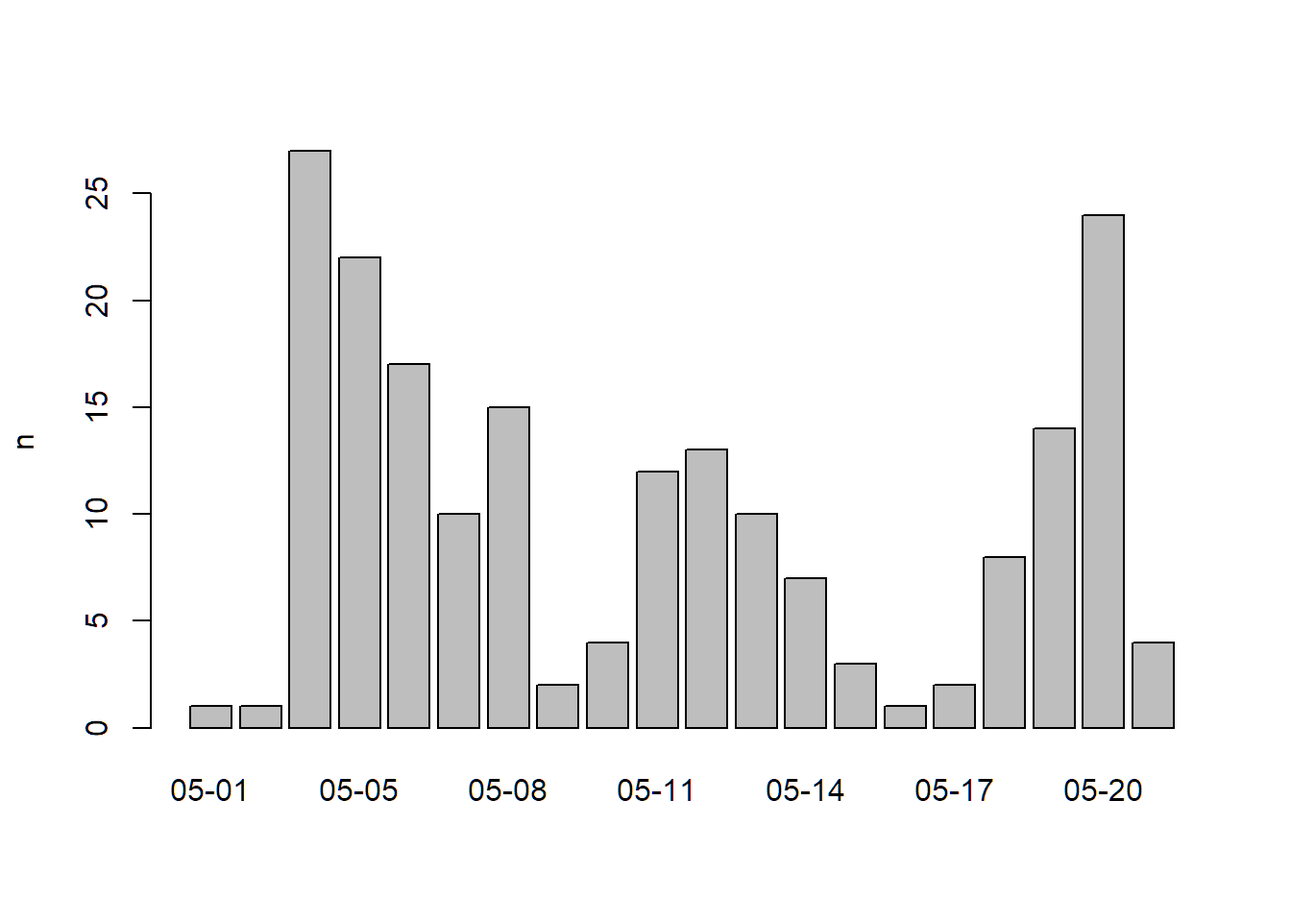
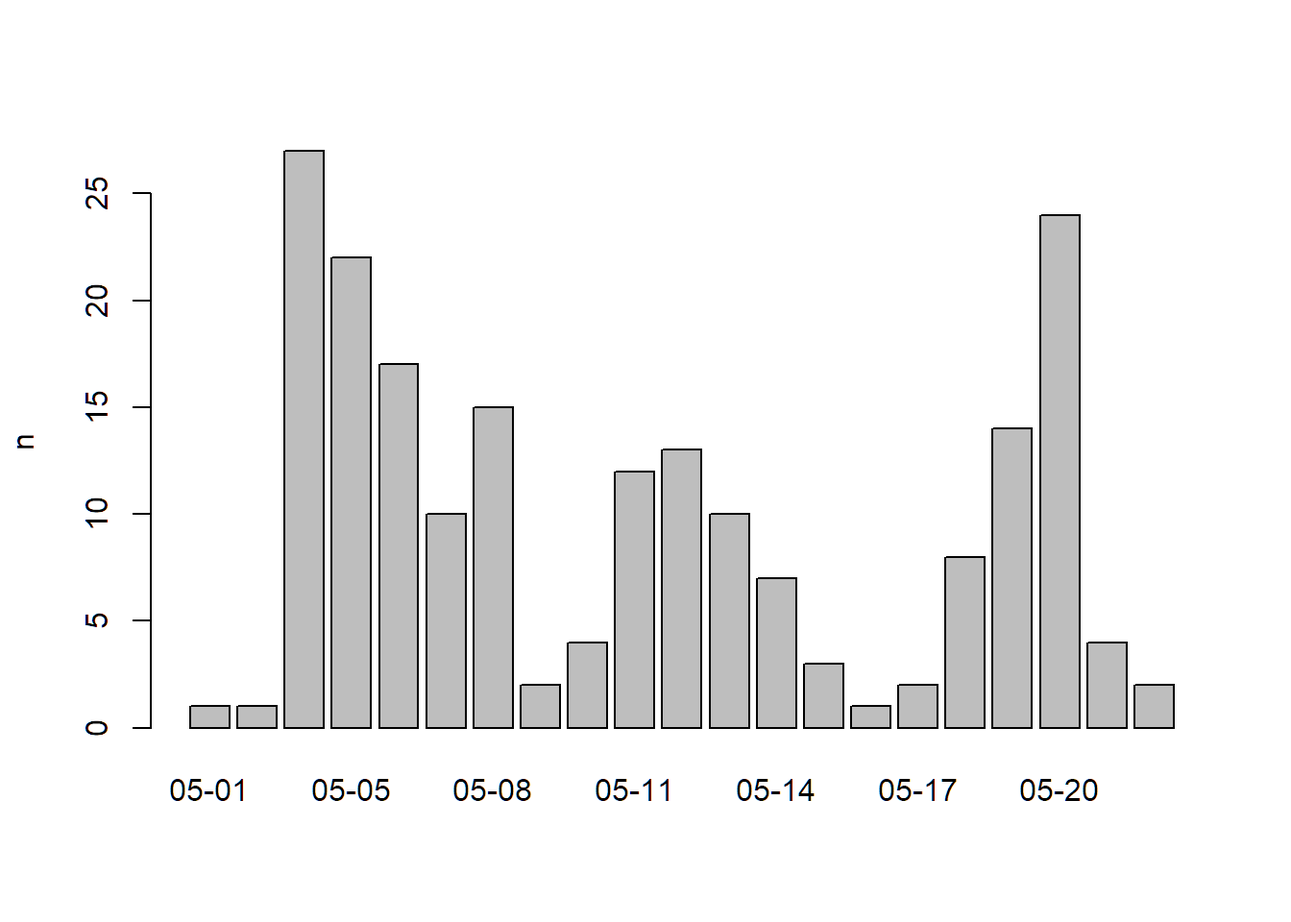
updated reg summary

diff --git a/docs/reg_summary.html b/docs/reg_summary.html
@@ -268,7 +268,7 @@ div.tocify {
 
 
 <h1 class="title toc-ignore">DroneCamp 2020 Registrations</h1>
-<h4 class="date">as of Thursday May 21, 13:56</h4>
+<h4 class="date">as of Friday May 22, 15:36</h4>
 
 </div>
 
@@ -299,15 +299,15 @@ h4 {
 <h1>Summary</h1>
 <p><p class="total">
 Total: 
-197
+199
 </p><p>
 <em>estimate based on unique email addresses</em>
 </p></p>
 </div>
 <div id="map" class="section level1">
 <h1>Map</h1>
-<div id="htmlwidget-5b324477708353fabc7c" style="width:672px;height:480px;" class="leaflet html-widget"></div>
-<script type="application/json" data-for="htmlwidget-5b324477708353fabc7c">{"x":{"options":{"crs":{"crsClass":"L.CRS.EPSG3857","code":null,"proj4def":null,"projectedBounds":null,"options":{}}},"calls":[{"method":"addTiles","args":["//{s}.tile.openstreetmap.org/{z}/{x}/{y}.png",null,null,{"minZoom":0,"maxZoom":18,"tileSize":256,"subdomains":"abc","errorTileUrl":"","tms":false,"noWrap":false,"zoomOffset":0,"zoomReverse":false,"opacity":1,"zIndex":1,"detectRetina":false,"attribution":"&copy; <a href=\"http://openstreetmap.org\">OpenStreetMap<\/a> contributors, <a href=\"http://creativecommons.org/licenses/by-sa/2.0/\">CC-BY-SA<\/a>"}]},{"method":"addCircleMarkers","args":[[37.4635519,36.678155,44.6111643,44.60509,38.5449065,32.7764749,36.825582,34.048411,38.5449065,36.9741171,38.556576,40.8020712,35.5005139,36.9707,38.5449065,37.7749295,40.659753,38.457611,37.523901,32.700018,36.6002378,34.117047,37.9829496,40.867469,36.681161,34.4208305,38.549256,41.081726,38.440111,32.704499,33.794028,40.039784,40.160138,39.5807452,52.9817372,49.2488091,43.6150186,39.072831,47.6248791,51.0447331,40.5852602,34.063209,37.5629917,36.678155,36.447533,35.5496939,40.5852602,34.0966764,36.6844029,49.2827291,34.268736,39.830936,36.722616,40.4233142,40.5852602,39.720955,36.9741171,36.6844029,43.0085587,37.3021632,40.867469,37.8715226,38.480494,33.640302,36.148444,49.2488091,38.672127,32.715738,39.7392358,38.3293416,38.3293416,38.3293416,40.0149856,40.4233142,36.812905,33.571185,34.0522342,32.715738,32.557684,38.939926,38.939926,47.899217,45.497856,41.971044,34.432896,36.3302284,36.358928,36.678155,39.9242266,38.7296252,43.828266,32.8328112,49.2710518,39.202725,34.110009,37.4529598,45.5051064,39.767536,49.1344187,39.114138,34.1175895,39.049377,39.049377,47.899217,32.800259,32.853471,40.399281,32.8111612,50.9341773,36.6844029,37.342056,33.016928,39.15973,39.720955,33.869114,33.016928,32.715738,36.678155,38.546306,39.7778,45.56544,45.482341,51.1097378,38.528103,38.528103,37.8715226,38.546306,26.067966,39.735745,36.691036,51.0869594,38.359772,36.865587,32.918035,40.399281,39.403178,37.010322,38.549256,36.680194,36.665879,37.8715226,37.232027,36.61365,38.549256,33.571185,36.619065,32.8328112,43.0730517,36.665879,43.165134,60.766603,37.057708,32.6926512,33.835465,38.480494,41.5264977,42.02933,49.1682866,43.06956,49.2609021,33.785166,38.628371,37.954122,49.2684344,40.963482,38.697238,39.957324,49.261045,34.406519,34.443746,44.6564909,44.6564909,44.6564909,36.9880503,44.6564909,36.9880503,44.6564909,44.6564909,44.6564909,44.6564909,44.6564909,39.645276,36.678155,38.5382322,39.395387,33.016928,34.4139629,38.5382322,40.044385,36.979333,38.5382322,38.580255,37.868575,38.5449065],[-122.4285862,-121.79724,-69.3345032,-69.33022,-121.7405167,-79.9310512,-119.76358,-118.34015,-121.7405167,-122.0307963,-121.49285,-124.1636729,-119.2717761,-121.99086,-121.7405167,-122.4194155,-124.22153,-122.69317,-120.8516,-114.52671,-121.8946761,-117.77097,-120.3821724,-124.07519,-121.61538,-119.6981901,-121.73655,-124.13112,-122.74563,-114.64644,-118.07218,-105.27938,-105.01772,-104.8771726,-122.4949058,-122.9805104,-116.2023137,-108.55,-122.5210007,-114.0718831,-105.084423,-118.43643,-122.3255254,-121.79724,-121.68611,-120.7060049,-105.084423,-117.7197785,-121.802173,-123.1207375,-119.2249,-105.03736,-120.10081,-104.7091322,-105.084423,-121.81888,-122.0307963,-121.802173,-81.2634983,-120.4829677,-124.07519,-122.273042,-122.74976,-117.769442,-95.90841,-122.9805104,-121.15783,-117.1610838,-104.990251,-122.7096666,-122.7096666,-122.7096666,-105.2705456,-104.7091322,-121.78299,-117.15362,-118.2436849,-117.1610838,-94.74353,-119.9771868,-119.9771868,-97.05896,-122.76988,-87.75869,-119.837072,-119.2920585,-119.24027,-121.79724,-83.8088171,-120.798546,-84.74219,-117.2712717,-123.1588119,-121.02076,-117.71973,-122.1817252,-122.6750261,-105.01973,-123.1163498,-121.6196,-118.188329,-76.49892,-76.49892,-97.05896,-115.35369,-115.58942,-104.70172,-115.3802643,-114.106128,-121.802173,-120.50154,-116.846046,-121.53735,-121.81888,-117.92985,-116.846046,-117.1610838,-121.79724,-121.68682,-89.67982,-122.64635,-122.60007,-114.1517792,-76.98063,-76.98063,-122.273042,-121.68682,-80.22016,-105.19337,-119.83321,-114.1294249,-120.75324,-119.75917,-117.08438,-104.70172,-119.7606,-121.98523,-121.73655,-121.7822278,-121.65497,-122.273042,-80.42127,-119.52873,-121.73655,-117.15362,-121.92102,-117.2712717,-89.4012302,-121.65497,-76.33901,-161.88006,-122.05967,-114.6276916,-117.87362,-122.74976,-70.6730857,-93.60966,-122.9101347,-89.423861,-123.1341072,-117.93406,-121.32702,-122.02506,-123.2611098,-124.07286,-121.80944,-120.98366,-123.2487939,-118.56214,-119.94215,-63.6021832,-63.6021832,-63.6021832,-122.0582093,-63.6021832,-122.0582093,-63.6021832,-63.6021832,-63.6021832,-63.6021832,-63.6021832,-79.962669,-121.79724,-121.7617125,-119.72735,-116.846046,-119.848947,-121.7617125,-105.21928,-121.8944,-121.7617125,-121.49125,-122.25855,-121.7405167],10,null,null,{"interactive":true,"className":"","stroke":true,"color":"#03F","weight":5,"opacity":0.5,"fill":true,"fillColor":"#03F","fillOpacity":0.2},1,null,["CE Advisor (Urban Forestry)<br/>UCCE San Mateo/San Francisco","Human Resources<br/>MPC Student","Professor<br/>Unity College","Professor of Geoscience<br/>Unity College","Executive Director, Sustainable Wine & Food Processing Center<br/>University of California Davis","Graduate Student<br/>College of Charleston","Turfgrass and Environmental Horticulture Advisor<br/>University of California Cooperative Extension","Postdoctoral Scholar<br/>UCLA","Associate Director River Restoration<br/>American Rivers","Senior Restoration Ecologist<br/>River Partners","Graduate Student<br/>UC Davis","Associate Environmental Planner<br/>Caltrans","Consultant/Remote Sensing Engineer<br/>Wonderful","Masters Candidate<br/>University of California Santa Cruz","Postdoc<br/>UC Davis","GIS Manager/Drone Pilot<br/>SFEI","Assistant Professor<br/>College of the Redwoods","Sr. GIS Analyst / Drone Ops<br/>Jackson Family Wines","Assistant Professor of Geography<br/>CSU, Stanislaus","Media Specialist and Drone Operator<br/>University of Arizona Yuma Center of Excellence for Desert Agriculture","GIS Technician<br/>CSU Monterey Bay","Statewide Survey and Trapping Coordinator<br/>UC IPM","Professor<br/>Columbia College","Adjunct Lecturer<br/>Humboldt State University","Student Researcher<br/>California State University Monterey Bay","Master Student<br/>UCSB","Graduate PhD student<br/>University of California Davis","Student<br/>College of the redwoods","Department Chair<br/>Santa Rosa Junior College","Professor of Geosciences/UAS<br/>Arizona Western College","Environmental Scientist<br/>California Department of Fish and Wildlife, Office of Spill Prevention and Response","GIS Ana.yst<br/>AGS Inc.","Unemployed<br/>Unemployed","GIS Specialist<br/>ICON Engineering","Student / BC Ministry of Forests Auxiliary<br/>British Columbia Institute of Technology","Student<br/>British Columbia Institute of Technology","Assistant Professor, Human Environment Systems<br/>Boise State University","GIS Technician<br/>City of Grand Junction","Sr Wildlife Biologist/Project Manager<br/>ManTech International","Geographer<br/>none","Owner<br/>Private Business","Undergraduate<br/>University of California, Berkeley","Student<br/>College of San Mateo","Graduate student<br/>UC Santa Cruz","Director, Hastings Reserve<br/>UC Berkeley","Program Manager<br/>Upper Salinas Las Tablas Resource Conservation District","Environmental Scientist<br/>Twin Fish Enterprises LLC","Student<br/>Claremont Graduate University","Graduate Student<br/>California State University Monterey Bay","Student<br/>BCIT","Lab/Field Assistant<br/>UCCE Ventura County","Sr Geographic Analyst<br/>HERE Technologies","Field Agronomist<br/>Bayer","Professor & Chair<br/>University of Northern Colorado","Student Researcher<br/>Colorado State University","Instructor<br/>Butte College","Master Student<br/>University of California Santa Cruz","IST II<br/>CSU. Monterey Bay","Teaching assistant<br/>Western University","Student<br/>UC Merced","It<br/>Humboldt State U","Field Research Safety CoE/Health & Safety Advisor<br/>UC Berkeley","Dairy Advisor<br/>University of California Cooperative Extension","Principal IT Auditor<br/>UC Irvine","Graduate student<br/>University of Tulsa","GIS Student<br/>BCIT","Postdoc<br/>UCDavis","Videographer<br/>SDSC","Student<br/>University of Denver","Scientific Programs Manager<br/>Marin/Sonoma Mosquito and Vector Control District","Environmental Biologist<br/>Marin/Sonoma Mosquito and Vector Control District","Assistant Manager<br/>Marin/Sonoma Mosquito and Vector Control District","Field Engineer<br/>UNAVCO","Emeritus Professor<br/>University of Northern Colorado","Digital Media Assistant<br/>Elkhorn Slough Foundation","Community Edication Specialist<br/>UCCE","Graduate Student<br/>California State University, Los Angeles","Teaching Assistant<br/>UCSD","Student<br/>Letourneau University","Adjunct Instructor<br/>LTCC","Citizen Science Program Coordinator<br/>League to Save Lake Tahoe","Owner<br/>UAS for Good LLC","Instructor<br/>Portland Community College","Instructor<br/>Harper College","R & D Engineer<br/>University of California Santa Barbara","Environmental Scientist<br/>CAL FIRE","Forerstry Assistant II<br/>CAL FIRE","Student<br/>CSU Monterey Bay","Associate Professor/Geospatial Technology Coordinator<br/>Clark State Community College","GIS Manager<br/>County of El Dorado","Instructor<br/>Mid Michigan College","R&D Engineer<br/>UC San Diego/Scripps Oceanography","Biologist<br/>Hemmera","Middle School Science Teacher<br/>Nevada City School of the Arts","Digital Scholarship Librarian<br/>Claremont Colleges","Postdoctoral scholar<br/>UC Berkeley","student<br/>PSU","Retired<br/>None","Student in GIS<br/>BCIT (British Columbia Student of Technology)","Advisor<br/>UCCE Sutter-Yuba","GIS Analyst / Geophysicist / Geologist<br/>Rio Hondo College","Instructional Specialist<br/>Anne Arundel Community College","Professor<br/>Anne Arundel Community College","Assistant Professor of Aviation<br/>University of North Dakota","CENTER SUPERINTENDENT<br/>University of California  DREC","SRA<br/>University of California  DREC","Assistant Professor<br/>University of Northern Colorado","lab assistant<br/>UC Cooperative Extension  in Imperial","Student<br/>University of Calgary","Student<br/>CSUMB","Coordinator and Professor of Computer Science<br/>Merced College","Ph.D. student<br/>UC San Diego","Farm hand<br/>CSU Chico, student","Environmental Land Steward II<br/>Chico State Enterprise","President<br/>Roof Rx Inc","PhD student<br/>UCSD","PhD Student<br/>University of California, San Diego","Professor and Farm Incubator<br/>CSUMB","Program and Event Specialist<br/>UC ANR","Student<br/>University of Kentucky","STEAM coordinator<br/>Portland Community College","STEAM Coordinator<br/>Portland. Community College","student<br/>Univeristy of Calgary","Program Assistant - Transportation<br/>College of Southern Marland","Director I, Transportation Dept<br/>College of Southern Maryland","Graduate Student<br/>University of California, Berkeley","Sr. Systems Administrator<br/>University of California - Agriculture and Natural Resources","Geomatics Specialist<br/>UF","Multimedia Section Lead<br/>NREL","Research Associate<br/>Bayer Crop Science","Student<br/>University of Calgary","Farm Advisor<br/>UCCE Central Sierra","Asst. Specialist<br/>UC ANR","Student - Intern for Graduate Student Studying Habitat Restoration and GIS<br/>UC Davis","Associate Professor<br/>University of Northern Colorado","GIS Analyst<br/>Michael Baker International","student<br/>West Valley College","PhD student<br/>Uc Davis","Assistant Professor<br/>California State University Monterey Bay","IPM & Entomology Advisor<br/>University of California Cooperative Extension","Ph.D. Candidate<br/>University of California, Berkeley","Geospatial Ext. Specialist<br/>Virginia Tech","Assistant CE Specialist<br/>ANR","Graduate Student Researcher<br/>UC Davis","GIS Consultant<br/>GEOinovo Solutions Inc","Graduate Student Assistant<br/>CSUMB","Student<br/>University of California San Diego","Postdoctoral Fellow<br/>The University of Wisconsin","Senior Lecturer/Media Production Specialist<br/>Cinematic Arts & Technology, CSU Monterey Bay","Student<br/>Syracuse University","Biologist/pilot<br/>US Fish and Wildlife Service","Postdoctoral Researcher<br/>UC Santa Cruz","Postdoctoral Research Associate<br/>University of Arizona","Student<br/>Rio Hondo College","Staff Surveyor<br/>Cinquini & Passarino Inc.","Research Scientist<br/>Marine Biological Laboratory","Graduate Research Assistant<br/>Iowa State University","Stuent<br/>British Columbia Institute of Technology","Undergraduate Researcher<br/>University of Wisconsin - Madison","Grad student<br/>UBC","Director, Drone Education Programs<br/>Vital Link OC","Professor, Department of Mechanical Engineering; Senior Bridge Engineer, Caltrans<br/>CSU Maritime Academy/Caltrans","IT Project Manager<br/>CSU Monterey Bay","PhD Student<br/>University of British Columbia","Biologist<br/>Caltrans","Project Designer<br/>Continental Development Consultants","Land Steward- Conservation Easement Coordinator<br/>Feather River Land Trust","PhD student<br/>The University of British Columbia","Commercial Estimator<br/>Rio Hondo College","PhD student, laboratory manager<br/>UCSB","Assistant Professor<br/>Dalhousie University","MSc student<br/>Dalhousie University","MSc student<br/>Dalhousie University","Researcher<br/>UC Santa Cruz","MSc student<br/>Dalhousie University","Summer Intern (Doris Duke Scholar)<br/>UC Santa Cruz","MSc student<br/>Dalhousie University","MSc student<br/>Dalhousie University","PhD student<br/>Dalhousie University","MSc student<br/>Dalhousie University","MSc student<br/>Dalhousie University","Assistant Professor<br/>West Virginia University","Field Technician<br/>CSUMB","PhD Candidate<br/>UC Davis","GIS Analyst<br/>NV Energy","PhD Student<br/>University of California, San Diego","Reserve Director, Carpinteria Salt Marsh Resereve<br/>University of California, Santa Barbara/UC NRS","scientist<br/>UC Davis","Field Engineer<br/>UNAVCO","Student<br/>CSUMB","Geospatial Specialist (JS)<br/>UC Davis","Civil Engineer<br/>CA DWR","PhD Student<br/>UC Berkeley","Student<br/>University of California Davis"],null,null,{"interactive":false,"permanent":false,"direction":"auto","opacity":1,"offset":[0,0],"textsize":"10px","textOnly":false,"className":"","sticky":true},null]}],"limits":{"lat":[26.067966,60.766603],"lng":[-161.88006,-63.6021832]}},"evals":[],"jsHooks":[]}</script>
+<div id="htmlwidget-a361cd1d10f02f13781a" style="width:672px;height:480px;" class="leaflet html-widget"></div>
+<script type="application/json" data-for="htmlwidget-a361cd1d10f02f13781a">{"x":{"options":{"crs":{"crsClass":"L.CRS.EPSG3857","code":null,"proj4def":null,"projectedBounds":null,"options":{}}},"calls":[{"method":"addTiles","args":["//{s}.tile.openstreetmap.org/{z}/{x}/{y}.png",null,null,{"minZoom":0,"maxZoom":18,"tileSize":256,"subdomains":"abc","errorTileUrl":"","tms":false,"noWrap":false,"zoomOffset":0,"zoomReverse":false,"opacity":1,"zIndex":1,"detectRetina":false,"attribution":"&copy; <a href=\"http://openstreetmap.org\">OpenStreetMap<\/a> contributors, <a href=\"http://creativecommons.org/licenses/by-sa/2.0/\">CC-BY-SA<\/a>"}]},{"method":"addCircleMarkers","args":[[37.4635519,36.678155,44.6111643,44.60509,38.5449065,32.7764749,36.825582,34.048411,38.5449065,36.9741171,38.556576,40.8020712,35.5005139,36.9707,38.5449065,37.7749295,40.659753,38.457611,37.523901,32.700018,36.6002378,34.117047,37.9829496,40.867469,36.681161,34.4208305,38.549256,41.081726,38.440111,32.704499,33.794028,40.039784,40.160138,39.5807452,52.9817372,49.2488091,43.6150186,39.072831,47.6248791,51.0447331,40.5852602,34.063209,37.5629917,36.678155,36.447533,35.5496939,40.5852602,34.0966764,36.6844029,49.2827291,34.268736,39.830936,36.722616,40.4233142,40.5852602,39.720955,36.9741171,36.6844029,43.0085587,37.3021632,40.867469,37.8715226,38.480494,33.640302,36.148444,49.2488091,38.672127,32.715738,39.7392358,38.3293416,38.3293416,38.3293416,40.0149856,40.4233142,36.812905,33.571185,34.0522342,32.715738,32.557684,38.939926,38.939926,47.899217,45.497856,41.971044,34.432896,36.3302284,36.358928,36.678155,39.9242266,38.7296252,43.828266,32.8328112,49.2710518,39.202725,34.110009,37.4529598,45.5051064,39.767536,49.1344187,39.114138,34.1175895,39.049377,39.049377,47.899217,32.800259,32.853471,40.399281,32.8111612,50.9341773,36.6844029,37.342056,33.016928,39.15973,39.720955,33.869114,33.016928,32.715738,36.678155,38.546306,39.7778,45.56544,45.482341,51.1097378,38.528103,38.528103,37.8715226,38.546306,26.067966,39.735745,36.691036,51.0869594,38.359772,36.865587,32.918035,40.399281,39.403178,37.010322,38.549256,36.680194,36.665879,37.8715226,37.232027,36.61365,38.549256,33.571185,36.619065,32.8328112,43.0730517,36.665879,43.165134,60.766603,37.057708,32.6926512,33.835465,38.480494,41.5264977,42.02933,49.1682866,43.06956,49.2609021,33.785166,38.628371,37.954122,49.2684344,40.963482,38.697238,39.957324,49.261045,34.406519,34.443746,44.6564909,44.6564909,44.6564909,36.9880503,44.6564909,36.9880503,44.6564909,44.6564909,44.6564909,44.6564909,44.6564909,39.645276,36.678155,38.5382322,39.395387,33.016928,34.4139629,38.5382322,40.044385,36.979333,38.5382322,38.580255,37.868575,38.5449065,43.318318,43.074296],[-122.4285862,-121.79724,-69.3345032,-69.33022,-121.7405167,-79.9310512,-119.76358,-118.34015,-121.7405167,-122.0307963,-121.49285,-124.1636729,-119.2717761,-121.99086,-121.7405167,-122.4194155,-124.22153,-122.69317,-120.8516,-114.52671,-121.8946761,-117.77097,-120.3821724,-124.07519,-121.61538,-119.6981901,-121.73655,-124.13112,-122.74563,-114.64644,-118.07218,-105.27938,-105.01772,-104.8771726,-122.4949058,-122.9805104,-116.2023137,-108.55,-122.5210007,-114.0718831,-105.084423,-118.43643,-122.3255254,-121.79724,-121.68611,-120.7060049,-105.084423,-117.7197785,-121.802173,-123.1207375,-119.2249,-105.03736,-120.10081,-104.7091322,-105.084423,-121.81888,-122.0307963,-121.802173,-81.2634983,-120.4829677,-124.07519,-122.273042,-122.74976,-117.769442,-95.90841,-122.9805104,-121.15783,-117.1610838,-104.990251,-122.7096666,-122.7096666,-122.7096666,-105.2705456,-104.7091322,-121.78299,-117.15362,-118.2436849,-117.1610838,-94.74353,-119.9771868,-119.9771868,-97.05896,-122.76988,-87.75869,-119.837072,-119.2920585,-119.24027,-121.79724,-83.8088171,-120.798546,-84.74219,-117.2712717,-123.1588119,-121.02076,-117.71973,-122.1817252,-122.6750261,-105.01973,-123.1163498,-121.6196,-118.188329,-76.49892,-76.49892,-97.05896,-115.35369,-115.58942,-104.70172,-115.3802643,-114.106128,-121.802173,-120.50154,-116.846046,-121.53735,-121.81888,-117.92985,-116.846046,-117.1610838,-121.79724,-121.68682,-89.67982,-122.64635,-122.60007,-114.1517792,-76.98063,-76.98063,-122.273042,-121.68682,-80.22016,-105.19337,-119.83321,-114.1294249,-120.75324,-119.75917,-117.08438,-104.70172,-119.7606,-121.98523,-121.73655,-121.7822278,-121.65497,-122.273042,-80.42127,-119.52873,-121.73655,-117.15362,-121.92102,-117.2712717,-89.4012302,-121.65497,-76.33901,-161.88006,-122.05967,-114.6276916,-117.87362,-122.74976,-70.6730857,-93.60966,-122.9101347,-89.423861,-123.1341072,-117.93406,-121.32702,-122.02506,-123.2611098,-124.07286,-121.80944,-120.98366,-123.2487939,-118.56214,-119.94215,-63.6021832,-63.6021832,-63.6021832,-122.0582093,-63.6021832,-122.0582093,-63.6021832,-63.6021832,-63.6021832,-63.6021832,-63.6021832,-79.962669,-121.79724,-121.7617125,-119.72735,-116.846046,-119.848947,-121.7617125,-105.21928,-121.8944,-121.7617125,-121.49125,-122.25855,-121.7405167,-89.74928,-89.40774],10,null,null,{"interactive":true,"className":"","stroke":true,"color":"#03F","weight":5,"opacity":0.5,"fill":true,"fillColor":"#03F","fillOpacity":0.2},1,null,["CE Advisor (Urban Forestry)<br/>UCCE San Mateo/San Francisco","Human Resources<br/>MPC Student","Professor<br/>Unity College","Professor of Geoscience<br/>Unity College","Executive Director, Sustainable Wine & Food Processing Center<br/>University of California Davis","Graduate Student<br/>College of Charleston","Turfgrass and Environmental Horticulture Advisor<br/>University of California Cooperative Extension","Postdoctoral Scholar<br/>UCLA","Associate Director River Restoration<br/>American Rivers","Senior Restoration Ecologist<br/>River Partners","Graduate Student<br/>UC Davis","Associate Environmental Planner<br/>Caltrans","Consultant/Remote Sensing Engineer<br/>Wonderful","Masters Candidate<br/>University of California Santa Cruz","Postdoc<br/>UC Davis","GIS Manager/Drone Pilot<br/>SFEI","Assistant Professor<br/>College of the Redwoods","Sr. GIS Analyst / Drone Ops<br/>Jackson Family Wines","Assistant Professor of Geography<br/>CSU, Stanislaus","Media Specialist and Drone Operator<br/>University of Arizona Yuma Center of Excellence for Desert Agriculture","GIS Technician<br/>CSU Monterey Bay","Statewide Survey and Trapping Coordinator<br/>UC IPM","Professor<br/>Columbia College","Adjunct Lecturer<br/>Humboldt State University","Student Researcher<br/>California State University Monterey Bay","Master Student<br/>UCSB","Graduate PhD student<br/>University of California Davis","Student<br/>College of the redwoods","Department Chair<br/>Santa Rosa Junior College","Professor of Geosciences/UAS<br/>Arizona Western College","Environmental Scientist<br/>California Department of Fish and Wildlife, Office of Spill Prevention and Response","GIS Ana.yst<br/>AGS Inc.","Unemployed<br/>Unemployed","GIS Specialist<br/>ICON Engineering","Student / BC Ministry of Forests Auxiliary<br/>British Columbia Institute of Technology","Student<br/>British Columbia Institute of Technology","Assistant Professor, Human Environment Systems<br/>Boise State University","GIS Technician<br/>City of Grand Junction","Sr Wildlife Biologist/Project Manager<br/>ManTech International","Geographer<br/>none","Owner<br/>Private Business","Undergraduate<br/>University of California, Berkeley","Student<br/>College of San Mateo","Graduate student<br/>UC Santa Cruz","Director, Hastings Reserve<br/>UC Berkeley","Program Manager<br/>Upper Salinas Las Tablas Resource Conservation District","Environmental Scientist<br/>Twin Fish Enterprises LLC","Student<br/>Claremont Graduate University","Graduate Student<br/>California State University Monterey Bay","Student<br/>BCIT","Lab/Field Assistant<br/>UCCE Ventura County","Sr Geographic Analyst<br/>HERE Technologies","Field Agronomist<br/>Bayer","Professor & Chair<br/>University of Northern Colorado","Student Researcher<br/>Colorado State University","Instructor<br/>Butte College","Master Student<br/>University of California Santa Cruz","IST II<br/>CSU. Monterey Bay","Teaching assistant<br/>Western University","Student<br/>UC Merced","It<br/>Humboldt State U","Field Research Safety CoE/Health & Safety Advisor<br/>UC Berkeley","Dairy Advisor<br/>University of California Cooperative Extension","Principal IT Auditor<br/>UC Irvine","Graduate student<br/>University of Tulsa","GIS Student<br/>BCIT","Postdoc<br/>UCDavis","Videographer<br/>SDSC","Student<br/>University of Denver","Scientific Programs Manager<br/>Marin/Sonoma Mosquito and Vector Control District","Environmental Biologist<br/>Marin/Sonoma Mosquito and Vector Control District","Assistant Manager<br/>Marin/Sonoma Mosquito and Vector Control District","Field Engineer<br/>UNAVCO","Emeritus Professor<br/>University of Northern Colorado","Digital Media Assistant<br/>Elkhorn Slough Foundation","Community Edication Specialist<br/>UCCE","Graduate Student<br/>California State University, Los Angeles","Teaching Assistant<br/>UCSD","Student<br/>Letourneau University","Adjunct Instructor<br/>LTCC","Citizen Science Program Coordinator<br/>League to Save Lake Tahoe","Owner<br/>UAS for Good LLC","Instructor<br/>Portland Community College","Instructor<br/>Harper College","R & D Engineer<br/>University of California Santa Barbara","Environmental Scientist<br/>CAL FIRE","Forerstry Assistant II<br/>CAL FIRE","Student<br/>CSU Monterey Bay","Associate Professor/Geospatial Technology Coordinator<br/>Clark State Community College","GIS Manager<br/>County of El Dorado","Instructor<br/>Mid Michigan College","R&D Engineer<br/>UC San Diego/Scripps Oceanography","Biologist<br/>Hemmera","Middle School Science Teacher<br/>Nevada City School of the Arts","Digital Scholarship Librarian<br/>Claremont Colleges","Postdoctoral scholar<br/>UC Berkeley","student<br/>PSU","Retired<br/>None","Student in GIS<br/>BCIT (British Columbia Student of Technology)","Advisor<br/>UCCE Sutter-Yuba","GIS Analyst / Geophysicist / Geologist<br/>Rio Hondo College","Instructional Specialist<br/>Anne Arundel Community College","Professor<br/>Anne Arundel Community College","Assistant Professor of Aviation<br/>University of North Dakota","CENTER SUPERINTENDENT<br/>University of California  DREC","SRA<br/>University of California  DREC","Assistant Professor<br/>University of Northern Colorado","lab assistant<br/>UC Cooperative Extension  in Imperial","Student<br/>University of Calgary","Student<br/>CSUMB","Coordinator and Professor of Computer Science<br/>Merced College","Ph.D. student<br/>UC San Diego","Farm hand<br/>CSU Chico, student","Environmental Land Steward II<br/>Chico State Enterprise","President<br/>Roof Rx Inc","PhD student<br/>UCSD","PhD Student<br/>University of California, San Diego","Professor and Farm Incubator<br/>CSUMB","Program and Event Specialist<br/>UC ANR","Student<br/>University of Kentucky","STEAM coordinator<br/>Portland Community College","STEAM Coordinator<br/>Portland. Community College","student<br/>Univeristy of Calgary","Program Assistant - Transportation<br/>College of Southern Marland","Director I, Transportation Dept<br/>College of Southern Maryland","Graduate Student<br/>University of California, Berkeley","Sr. Systems Administrator<br/>University of California - Agriculture and Natural Resources","Geomatics Specialist<br/>UF","Multimedia Section Lead<br/>NREL","Research Associate<br/>Bayer Crop Science","Student<br/>University of Calgary","Farm Advisor<br/>UCCE Central Sierra","Asst. Specialist<br/>UC ANR","Student - Intern for Graduate Student Studying Habitat Restoration and GIS<br/>UC Davis","Associate Professor<br/>University of Northern Colorado","GIS Analyst<br/>Michael Baker International","student<br/>West Valley College","PhD student<br/>Uc Davis","Assistant Professor<br/>California State University Monterey Bay","IPM & Entomology Advisor<br/>University of California Cooperative Extension","Ph.D. Candidate<br/>University of California, Berkeley","Geospatial Ext. Specialist<br/>Virginia Tech","Assistant CE Specialist<br/>ANR","Graduate Student Researcher<br/>UC Davis","GIS Consultant<br/>GEOinovo Solutions Inc","Graduate Student Assistant<br/>CSUMB","Student<br/>University of California San Diego","Postdoctoral Fellow<br/>The University of Wisconsin","Senior Lecturer/Media Production Specialist<br/>Cinematic Arts & Technology, CSU Monterey Bay","Student<br/>Syracuse University","Biologist/pilot<br/>US Fish and Wildlife Service","Postdoctoral Researcher<br/>UC Santa Cruz","Postdoctoral Research Associate<br/>University of Arizona","Student<br/>Rio Hondo College","Staff Surveyor<br/>Cinquini & Passarino Inc.","Research Scientist<br/>Marine Biological Laboratory","Graduate Research Assistant<br/>Iowa State University","Stuent<br/>British Columbia Institute of Technology","Undergraduate Researcher<br/>University of Wisconsin - Madison","Grad student<br/>UBC","Director, Drone Education Programs<br/>Vital Link OC","Professor, Department of Mechanical Engineering; Senior Bridge Engineer, Caltrans<br/>CSU Maritime Academy/Caltrans","IT Project Manager<br/>CSU Monterey Bay","PhD Student<br/>University of British Columbia","Biologist<br/>Caltrans","Project Designer<br/>Continental Development Consultants","Land Steward- Conservation Easement Coordinator<br/>Feather River Land Trust","PhD student<br/>The University of British Columbia","Commercial Estimator<br/>Rio Hondo College","PhD student, laboratory manager<br/>UCSB","Assistant Professor<br/>Dalhousie University","MSc student<br/>Dalhousie University","MSc student<br/>Dalhousie University","Researcher<br/>UC Santa Cruz","MSc student<br/>Dalhousie University","Summer Intern (Doris Duke Scholar)<br/>UC Santa Cruz","MSc student<br/>Dalhousie University","MSc student<br/>Dalhousie University","PhD student<br/>Dalhousie University","MSc student<br/>Dalhousie University","MSc student<br/>Dalhousie University","Assistant Professor<br/>West Virginia University","Field Technician<br/>CSUMB","PhD Candidate<br/>UC Davis","GIS Analyst<br/>NV Energy","PhD Student<br/>University of California, San Diego","Reserve Director, Carpinteria Salt Marsh Resereve<br/>University of California, Santa Barbara/UC NRS","scientist<br/>UC Davis","Field Engineer<br/>UNAVCO","Student<br/>CSUMB","Geospatial Specialist (JS)<br/>UC Davis","Civil Engineer<br/>CA DWR","PhD Student<br/>UC Berkeley","Student<br/>University of California Davis","Ecologist<br/>US Dairy Forage Research Center","Biological Research Technician<br/>US Dairy Forage Research Center"],null,null,{"interactive":false,"permanent":false,"direction":"auto","opacity":1,"offset":[0,0],"textsize":"10px","textOnly":false,"className":"","sticky":true},null]}],"limits":{"lat":[26.067966,60.766603],"lng":[-161.88006,-63.6021832]}},"evals":[],"jsHooks":[]}</script>
 </div>
 <div id="by-top-level-domain" class="section level1">
 <h1>By Top Level Domain</h1>
@@ -334,7 +334,7 @@ edu
 124
 </td>
 <td style="text-align:left;">
-62.9%
+62.3%
 </td>
 </tr>
 <tr>
@@ -345,7 +345,7 @@ com
 34
 </td>
 <td style="text-align:left;">
-17.3%
+17.1%
 </td>
 </tr>
 <tr>
@@ -356,7 +356,18 @@ ca
 18
 </td>
 <td style="text-align:left;">
-9.1%
+9%
+</td>
+</tr>
+<tr>
+<td style="text-align:left;">
+gov
+</td>
+<td style="text-align:right;">
+10
+</td>
+<td style="text-align:left;">
+5%
 </td>
 </tr>
 <tr>
@@ -367,18 +378,7 @@ org
 10
 </td>
 <td style="text-align:left;">
-5.1%
-</td>
-</tr>
-<tr>
-<td style="text-align:left;">
-gov
-</td>
-<td style="text-align:right;">
-8
-</td>
-<td style="text-align:left;">
-4.1%
+5%
 </td>
 </tr>
 <tr>
@@ -966,6 +966,14 @@ UNAVCO
 <tr>
 <td style="text-align:left;">
 University of Calgary
+</td>
+<td style="text-align:right;">
+2
+</td>
+</tr>
+<tr>
+<td style="text-align:left;">
+US Dairy Forage Research Center
 </td>
 <td style="text-align:right;">
 2
